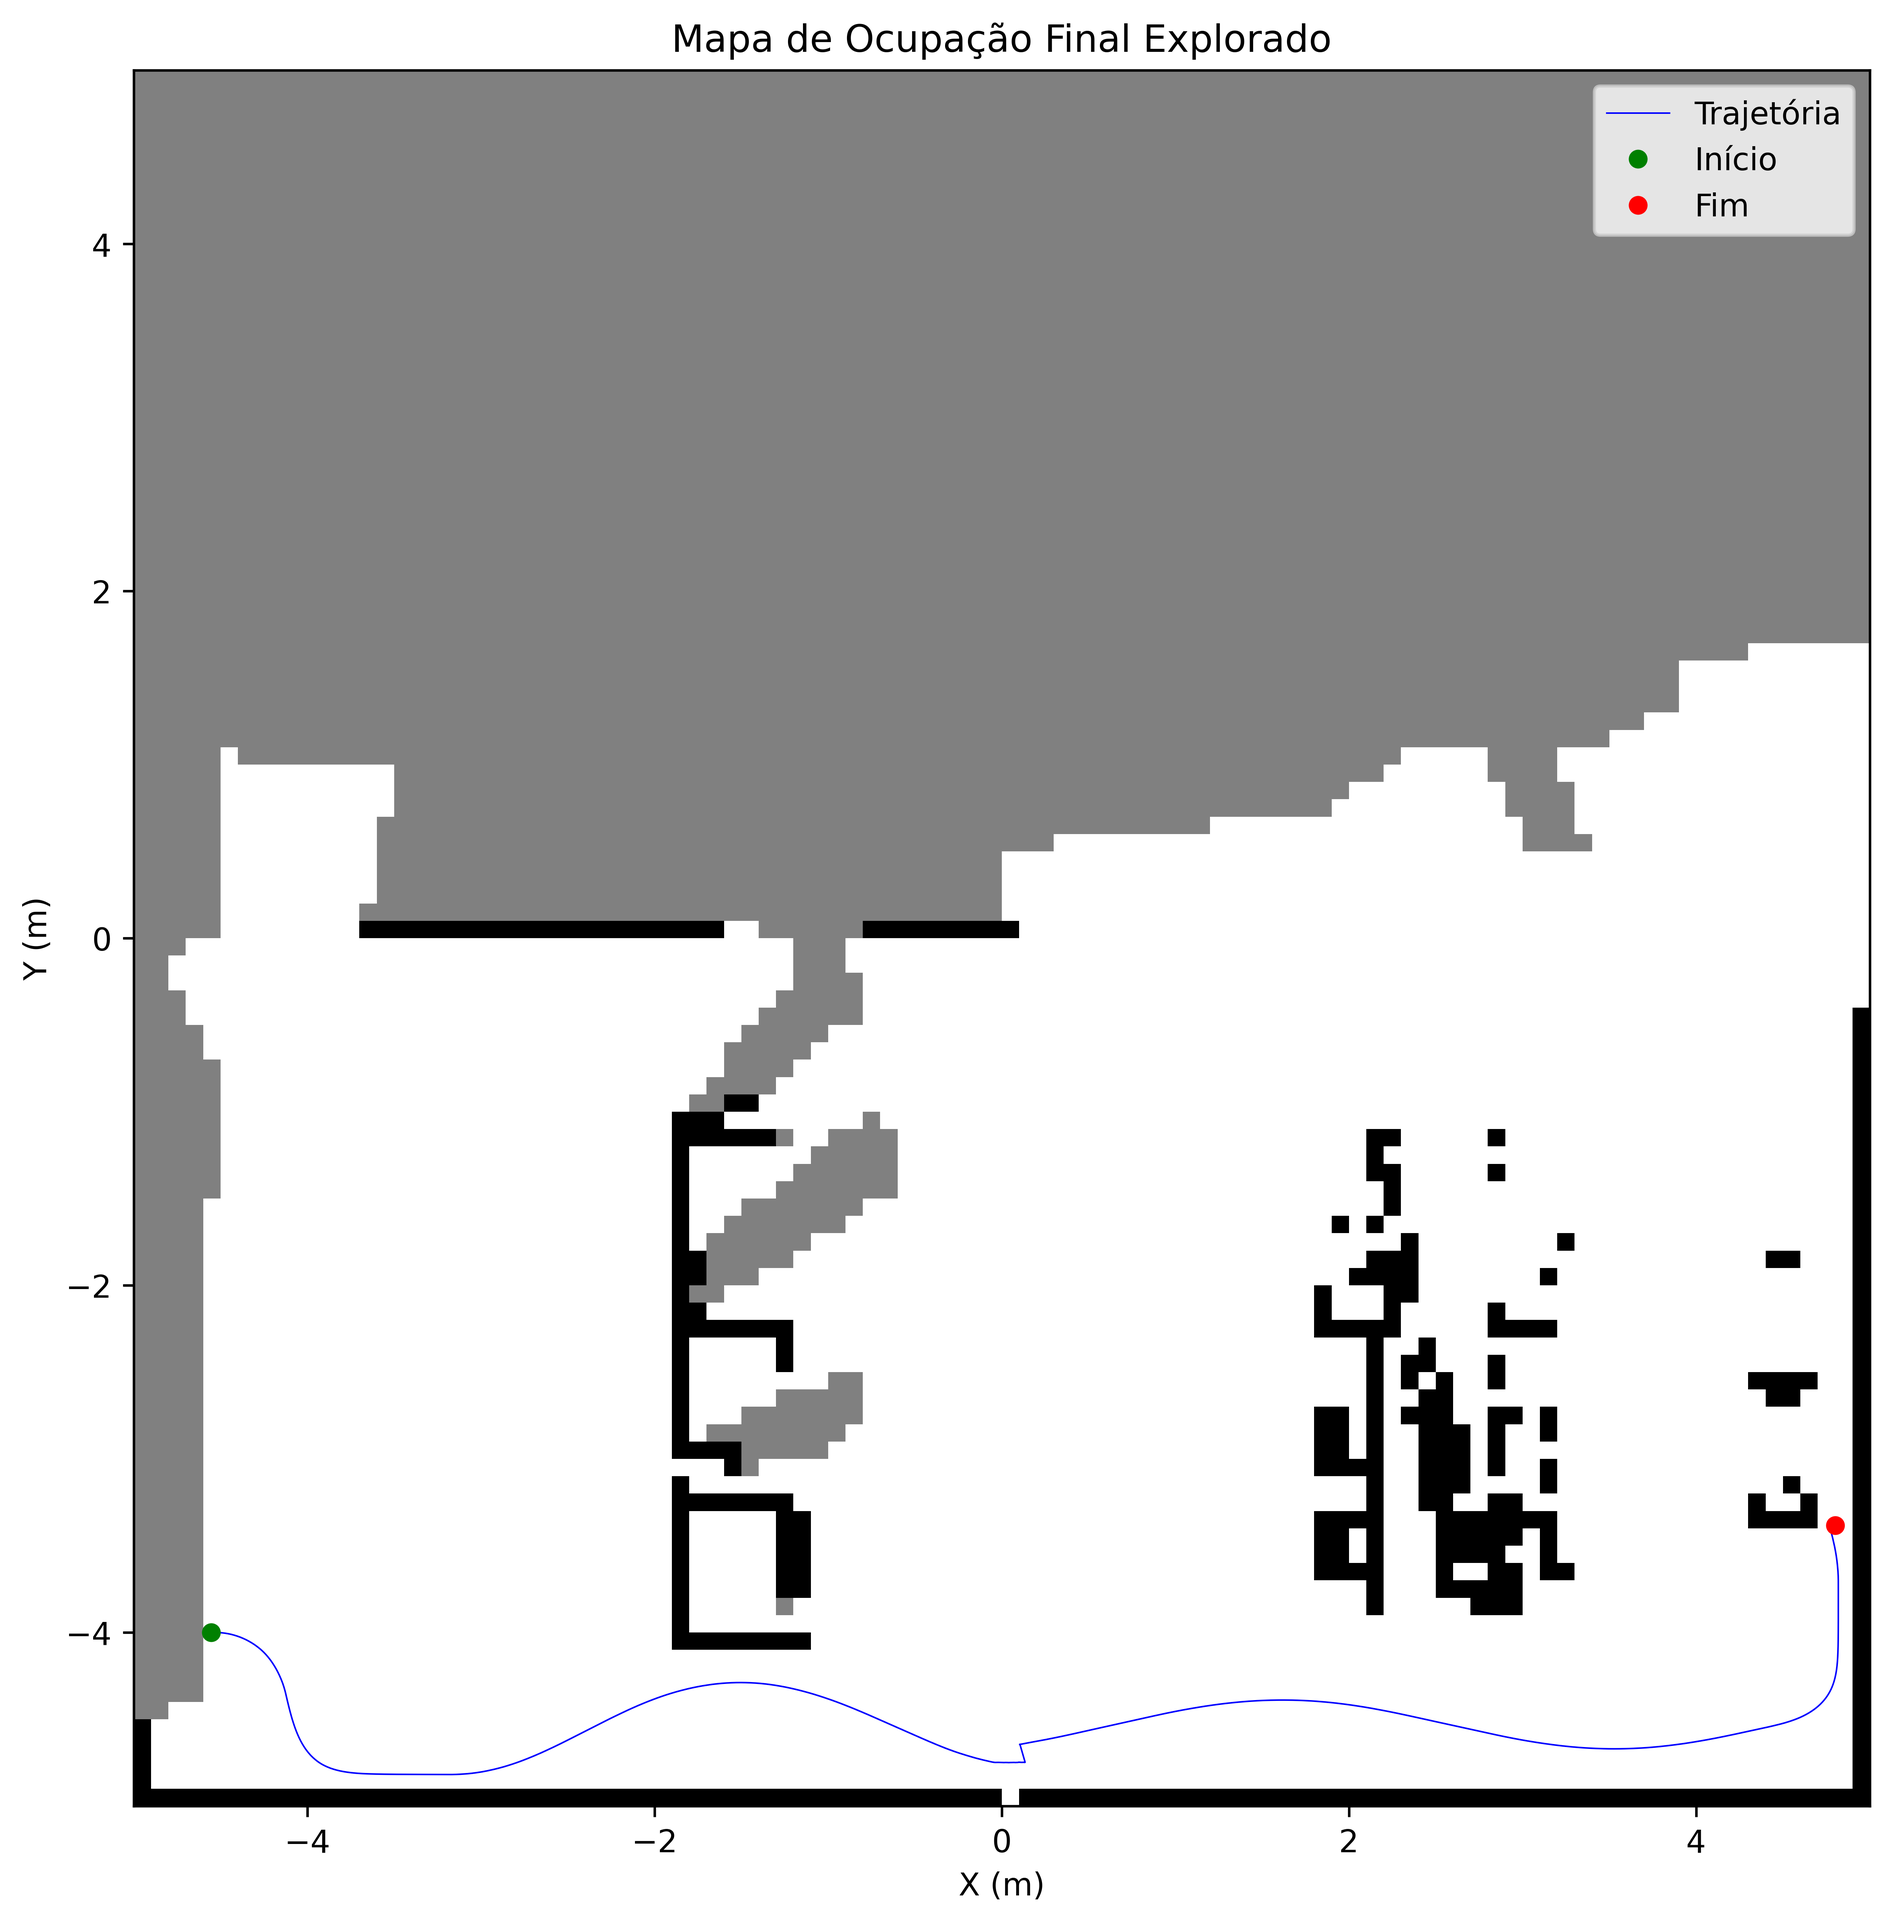
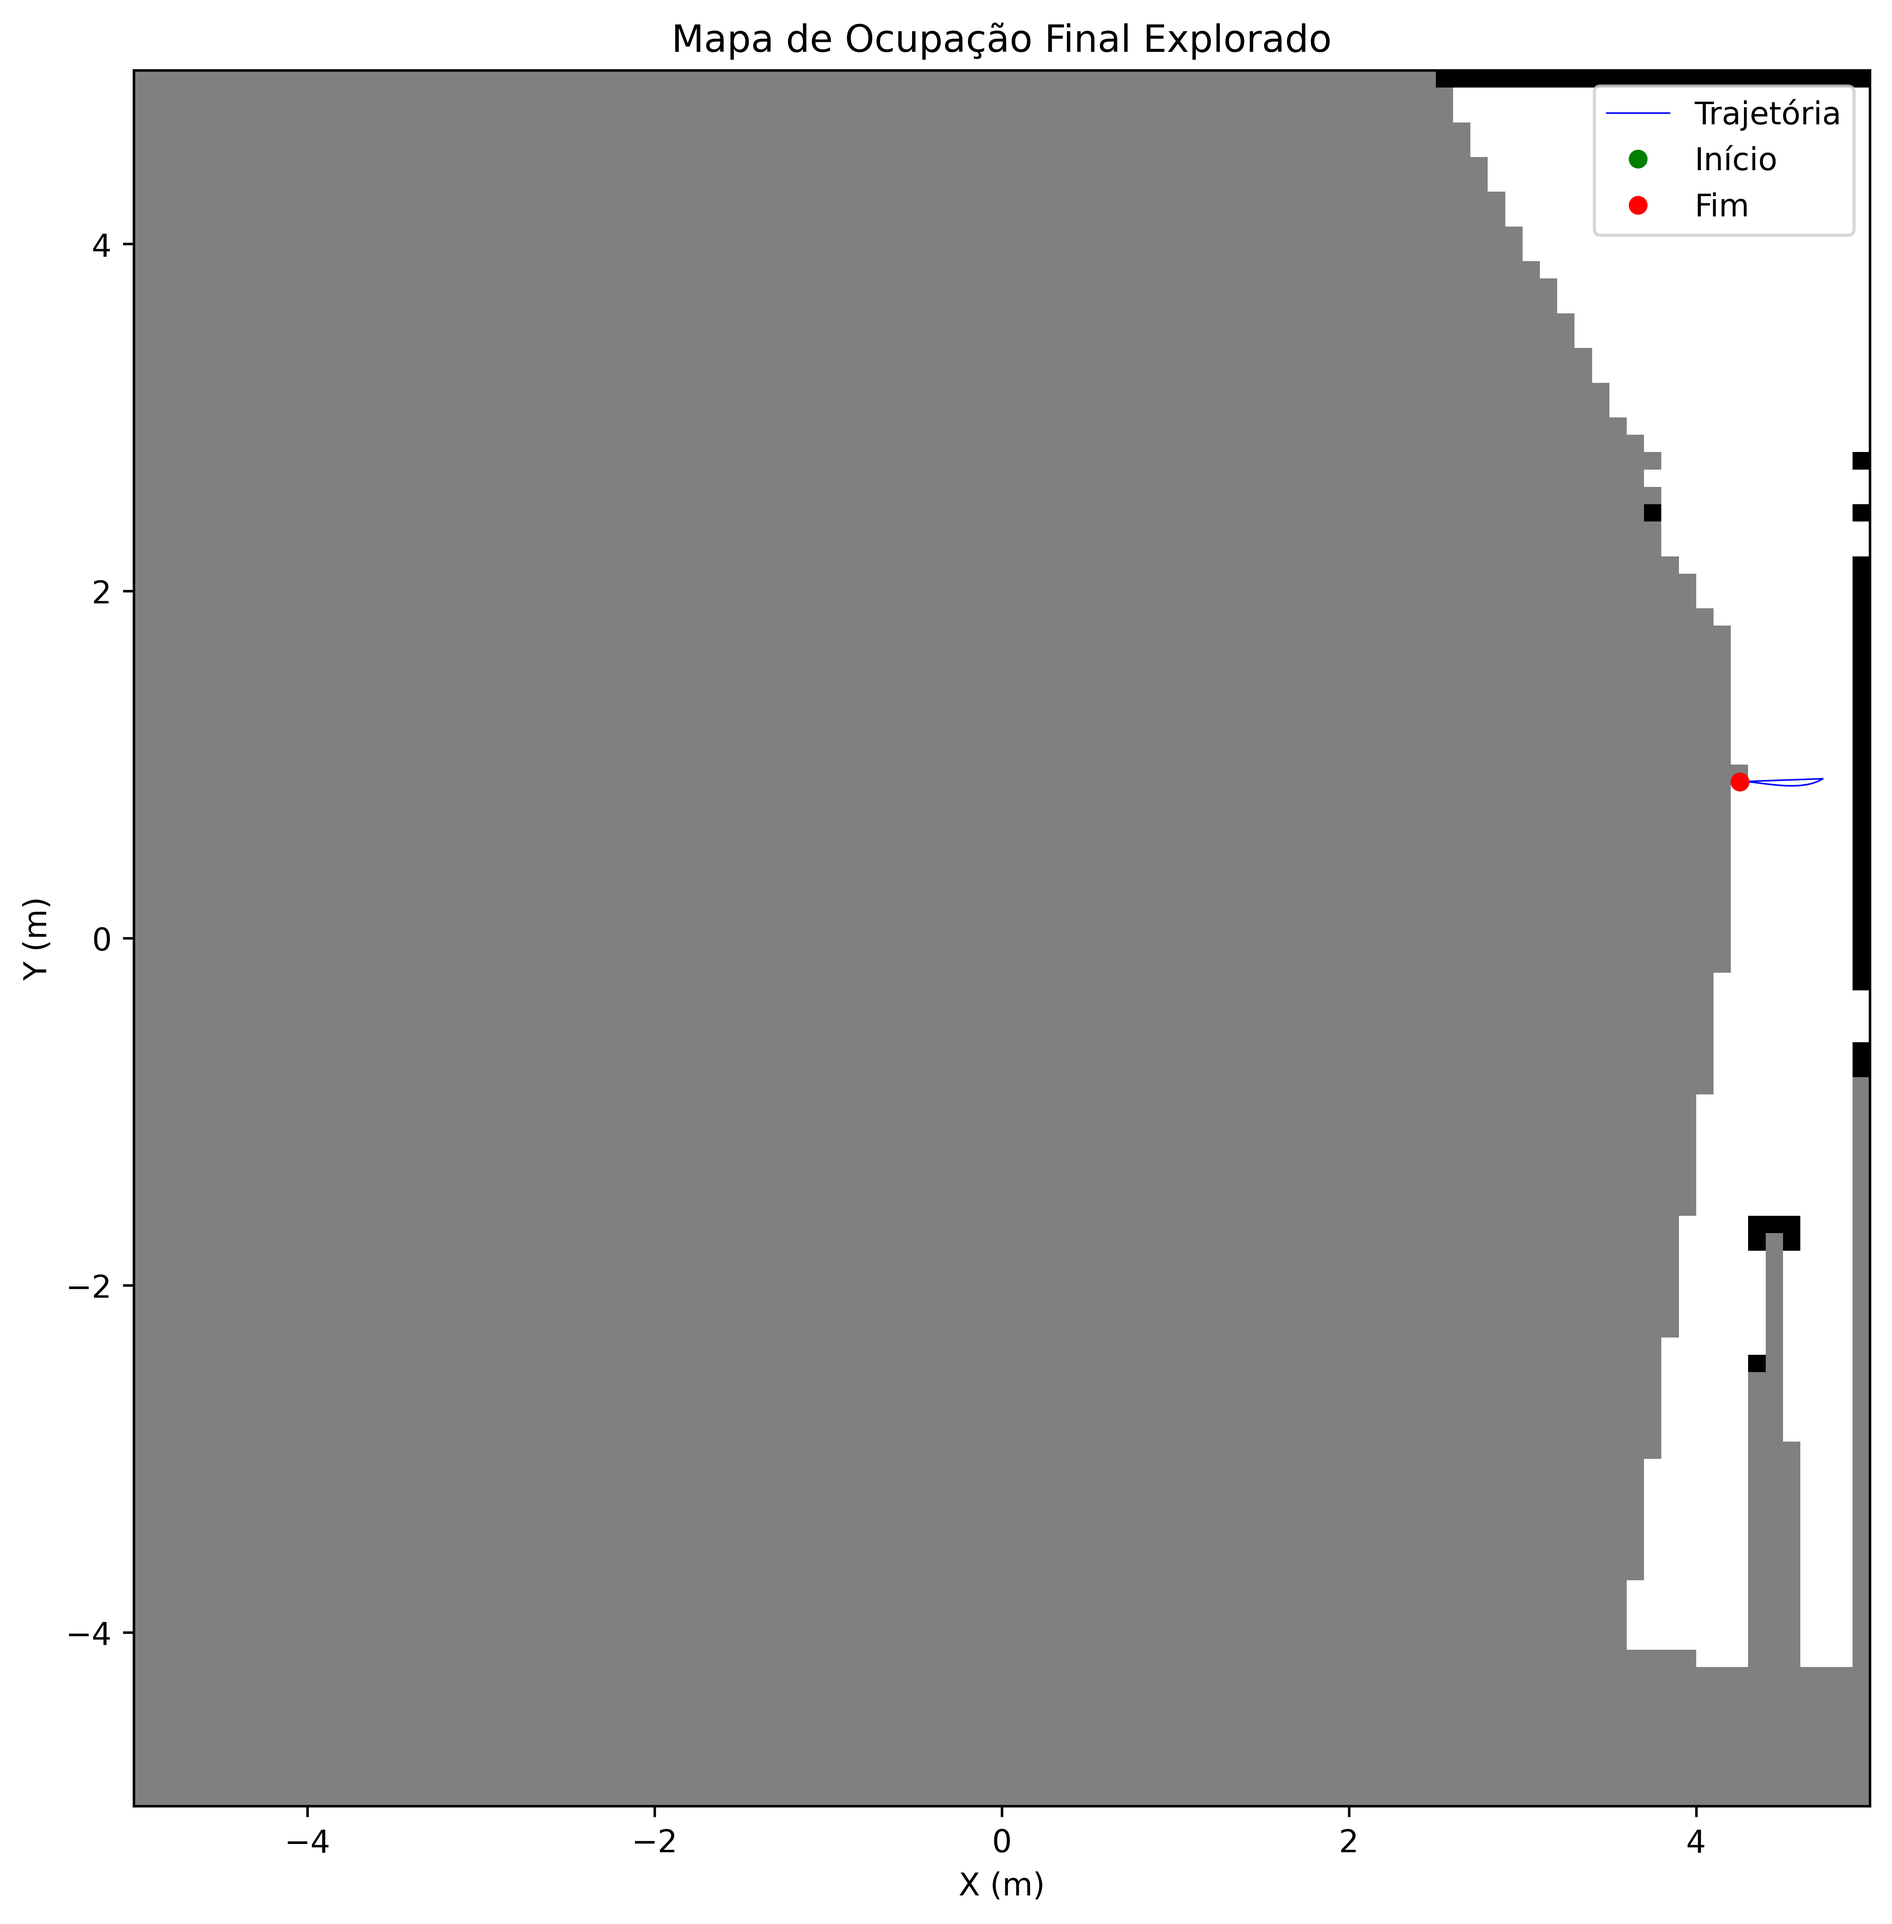
enviando tudo

diff --git a/tp3/src/main.py b/tp3/src/main.py
@@ -1,7 +1,5 @@
 import numpy as np
 import matplotlib
-# matplotlib.use("TkAgg")
-
 import matplotlib.pyplot as plt
 import numpy as np
 import time
@@ -134,10 +132,10 @@ def update_map_log_odds(log_odds_map, robot_pos, laser_data, step, last_seen,
     return log_odds_map, last_seen
 
 
-plt.ion() # Ligar modo interativo
-# Criar uma figura com 2 subplots (1 linha, 2 colunas)
-fig, (ax1, ax2) = plt.subplots(1, 2, figsize=(15, 7))
-fig.suptitle("Mapeamento e Trajetória em Tempo Real", fontsize=16)
+# plt.ion() # Ligar modo interativo
+# # Criar uma figura com 2 subplots (1 linha, 2 colunas)
+# fig, (ax1, ax2) = plt.subplots(1, 2, figsize=(15, 7))
+# fig.suptitle("Mapeamento e Trajetória em Tempo Real", fontsize=16)
 cmap_vis = ListedColormap(['#808080', '#FFFFFF', '#000000'])
 N_LASER_POINTS_PLOT = 1000 # Limite de pontos de laser para plotar (performance)
 map_extent = [MAP_ORIGIN_X, MAP_ORIGIN_X + MAP_SIZE_X, 
@@ -192,7 +190,7 @@ cmap = ListedColormap(["gray", "white", "black"])
 # Loop principal (visualização em metros)
 # -----------------------
 plt.ion()
-fig, ax = plt.subplots(figsize=(6,6))
+fig, (ax1, ax2) = plt.subplots(1, 2, figsize=(12,6))
 
 robot_path_world = []  # lista de (x,y) world coordinates
 
@@ -210,7 +208,7 @@ while sim.getSimulationState() != sim.simulation_stopped:
     step +=1
 
     
-    if step > 1000:
+    if step > 100000000:
         print(f"Tempo limite de {LIMITE_TEMPO_SIM}s atingido. Parando a simulação.")
         break
 
@@ -250,58 +248,58 @@ while sim.getSimulationState() != sim.simulation_stopped:
     sim.setJointTargetVelocity(l_wheel, wl)
     sim.setJointTargetVelocity(r_wheel, wr)
 
-    if step % 25 == 0:
+    # if step % 25 == 0:
         
-        ax1.clear()
-        ax2.clear()
+    ax1.clear()
+    ax2.clear()
 
-        
-        if hist:
-            x, y = zip(*hist)
-            ax1.plot(x, y, '--k', label="Trajetória")
-            ax1.plot(x[0], y[0], 'go', markersize=8, label="Início")
-            ax1.plot(x[-1], y[-1], 'ro', markersize=8, label="Atual")
+    
+    if hist:
+        x, y = zip(*hist)
+        ax1.plot(x, y, '--k', label="Trajetória")
+        ax1.plot(x[0], y[0], 'go', markersize=8, label="Início")
+        ax1.plot(x[-1], y[-1], 'ro', markersize=8, label="Atual")
 
-        if laser_global:
-            points_to_plot = laser_global[-N_LASER_POINTS_PLOT:]
-            lx, ly = zip(*points_to_plot)
-            ax1.scatter(lx, ly, s=1, c='r', alpha=0.1, label=f"Laser (últimos {N_LASER_POINTS_PLOT})")
+    if laser_global:
+        points_to_plot = laser_global[-N_LASER_POINTS_PLOT:]
+        lx, ly = zip(*points_to_plot)
+        ax1.scatter(lx, ly, s=1, c='r', alpha=0.1, label=f"Laser (últimos {N_LASER_POINTS_PLOT})")
 
-        ax1.set_title(f"Plot de Pontos (Step {step})")
-        ax1.set_xlabel("X (m)")
-        ax1.set_ylabel("Y (m)")
-        ax1.set_aspect('equal')
-        ax1.legend(fontsize='small')
-        ax1.grid(True)
+    ax1.set_title(f"Plot de Pontos (Step {step})")
+    ax1.set_xlabel("X (m)")
+    ax1.set_ylabel("Y (m)")
+    ax1.set_aspect('equal')
+    ax1.legend(fontsize='small')
+    ax1.grid(True)
 
-        ax1.set_xlim(MAP_ORIGIN_X, MAP_ORIGIN_X + MAP_SIZE_X)
-        ax1.set_ylim(MAP_ORIGIN_Y, MAP_ORIGIN_Y + MAP_SIZE_Y)
-
-
-        # Plot 2 OCCUPANCY GRID
-        
-        prob = 1.0 / (1.0 + np.exp(-log_odds_map)) 
+    ax1.set_xlim(MAP_ORIGIN_X, MAP_ORIGIN_X + MAP_SIZE_X)
+    ax1.set_ylim(MAP_ORIGIN_Y, MAP_ORIGIN_Y + MAP_SIZE_Y)
 
 
-        grid_vis = np.zeros_like(prob, dtype=np.uint8)
-        grid_vis[prob < 0.45] = 1 
-        grid_vis[prob > 0.55] = 2 
-                  
-        ax2.imshow(grid_vis, origin='lower', cmap=cmap_vis, extent=map_extent, vmin=0, vmax=2)
+    # Plot 2 OCCUPANCY GRID
+    
+    prob = 1.0 / (1.0 + np.exp(-log_odds_map)) 
 
-        if hist:
-            xs, ys = zip(*hist)
-            ax2.plot(xs, ys, color='blue', linewidth=1, label="Trajetória")
-            ax2.plot(xs[0], ys[0], 'go', markersize=5, label="Início")
-            ax2.plot(xs[-1], ys[-1], 'ro', markersize=5, label="Atual")
 
-        ax2.set_title("Mapa de Ocupação (Log-Odds)")
-        ax2.set_xlabel("X (m)")
-        ax2.set_ylabel("Y (m)")
-        ax2.set_aspect('equal')
-        ax2.legend(fontsize='small')
-        
-        plt.pause(0.01) 
+    grid_vis = np.zeros_like(prob, dtype=np.uint8)
+    grid_vis[prob < 0.45] = 1 
+    grid_vis[prob > 0.55] = 2 
+                
+    ax2.imshow(grid_vis, origin='lower', cmap=cmap_vis, extent=map_extent, vmin=0, vmax=2)
+
+    if hist:
+        xs, ys = zip(*hist)
+        ax2.plot(xs, ys, color='blue', linewidth=1, label="Trajetória")
+        ax2.plot(xs[0], ys[0], 'go', markersize=5, label="Início")
+        ax2.plot(xs[-1], ys[-1], 'ro', markersize=5, label="Atual")
+
+    ax2.set_title("Mapa de Ocupação (Log-Odds)")
+    ax2.set_xlabel("X (m)")
+    ax2.set_ylabel("Y (m)")
+    ax2.set_aspect('equal')
+    ax2.legend(fontsize='small')
+    
+    plt.pause(0.01) 
         
 
 
@@ -312,7 +310,7 @@ print('Program ended')
 # --- MODIFICADO: LÓGICA DE PLOTAGEM FINAL ---
 
 # Fechar a janela interativa (fig) que estava aberta
-plt.close(fig) 
+# plt.close(fig) 
 plt.ioff() # Garantir que estamos em modo não-interativo para salvar
 
 print("Gerando plots finais com 600 dpi...")

diff --git a/tp3/src/logOdds.py b/tp3/src/logOdds.py
@@ -3,42 +3,32 @@ from skimage.draw import line
 
 
 
-
-# mexendo atualmente
-LOG_ODDS_MIN = -10.0
-LOG_ODDS_MAX = 10.0
-# --- PARÂMETROS DO MAPA ---
-MAP_RESOLUTION = 0.1  # 10 cm por célula (problema quando muda a resolucao)
-MAP_SIZE_X = 10.0      # metros
-MAP_SIZE_Y = 10.0      # metros
-MAP_ORIGIN_X = -5.0    # Canto inferior esquerdo X
-MAP_ORIGIN_Y = -5.0    # Canto inferior esquerdo Y
-nrows = int(MAP_SIZE_Y / MAP_RESOLUTION)
-ncols = int(MAP_SIZE_X / MAP_RESOLUTION)
-MAX_SCAN_DISTANCE = 5.0
-
-def world_to_grid_xy(wx, wy):
+# conversao das coordenadas do mundo para o bloco do grid
+def world_to_grid_xy(resolucao_mapa, tamanho_mapa, origem_mapa,wx, wy):
     
-    # Converte mundo (x,y) [m] -> índice de célula (ix, iy)
-    # origem está no centro do mapa 0,0
+    ix = int((wx - origem_mapa) / resolucao_mapa)
+    iy = int((wy - origem_mapa) / resolucao_mapa)
     
-    ix = int((wx - MAP_ORIGIN_X) / MAP_RESOLUTION)
-    iy = int((wy - MAP_ORIGIN_Y) / MAP_RESOLUTION)
+        
+    nrows = int(tamanho_mapa / resolucao_mapa)
+    ncols = int(tamanho_mapa / resolucao_mapa)
     
-    # ix = int((ncols / 2) + (wx / cell_size)) # parentezes modificado, caso tenha problema rever
-    # iy = int((nrows / 2) + (wy / cell_size))
-
     if 0 <= ix < ncols and 0 <= iy < nrows:
         return ix, iy
     return None, None
 
 
-
-
-MAX_RANGE_THRESHOLD = MAX_SCAN_DISTANCE * 0.99
 # Calculo do log_odds (explicar no video)
 def update_map_log_odds(log_odds_map, robot_pos, laser_data, step, last_seen,
                         l_occ=0.2, l_free=-0.7):
+    
+    # mexendo atualmente
+    log_odds_min = -10.0
+    log_odds_max = 10.0
+
+    distancia_laiser_max = 5.0
+    alcance_maximo = distancia_laiser_max * 0.99
+    
     
     x, y, theta_r = robot_pos[0], robot_pos[1], robot_pos[2]
     x_Grid, y_Grid = world_to_grid_xy(x, y)
@@ -46,10 +36,8 @@ def update_map_log_odds(log_odds_map, robot_pos, laser_data, step, last_seen,
     if x_Grid is None or y_Grid is None:
         return log_odds_map, last_seen
 
-    # Limiar para considerar uma célula como "fortemente ocupada"
-    # (Não apague células acima deste valor)
     L_OCC_THRESHOLD = 3 
-    L_FREE_THRESHOLD = -3
+    
     
     
     for d, ang in laser_data:
@@ -69,41 +57,30 @@ def update_map_log_odds(log_odds_map, robot_pos, laser_data, step, last_seen,
         if len(rr) <= 1:
             continue
 
-        # --- LÓGICA DE ATUALIZAÇÃO CORRIGIDA ---
-
-        # 1. Obter todas as células do feixe (exceto a do robô)
         beam_rows, beam_cols = rr[1:], cc[1:]
 
-        # 2. Aplicar 'livre' (l_free) ao longo do feixe, EXCETO no ponto final
         if len(beam_rows) > 1:
             path_rows, path_cols = beam_rows[:-1], beam_cols[:-1]
             
-            # Verificar o estado atual dessas células
             current_log_odds = log_odds_map[path_rows, path_cols]
             
-            # Criar uma máscara de células que NÃO estão fortemente ocupadas
             free_or_unknown_mask = current_log_odds < L_OCC_THRESHOLD
             
-            # Aplicar 'l_free' APENAS a essas células
             rows_to_free = path_rows[free_or_unknown_mask]
             cols_to_free = path_cols[free_or_unknown_mask]
             log_odds_map[rows_to_free, cols_to_free] += l_free
 
-        # 3. Tratar o PONTO FINAL (a última célula do feixe)
+
         end_row, end_col = beam_rows[-1], beam_cols[-1]
         
-        if d < MAX_RANGE_THRESHOLD:
-            # if log_odds_map[end_row, end_col] > L_FREE_THRESHOLD:
+        if d < alcance_maximo:
                 log_odds_map[end_row, end_col] += l_occ
         else:
-            # Feixe de Max Range -> Marcar ponto final como LIVRE
-            # (Também checando para não apagar um obstáculo)
-            # if log_odds_map[end_row, end_col] < L_OCC_THRESHOLD:
                 log_odds_map[end_row, end_col] += l_free
 
-        # 4. Atualizar o tempo de visão de todo o feixe
+        
         last_seen[rr, cc] = step
 
-    # Clamp para estabilidade
-    np.clip(log_odds_map, LOG_ODDS_MIN, LOG_ODDS_MAX, out=log_odds_map)
+    
+    np.clip(log_odds_map, log_odds_min, log_odds_max, out=log_odds_map)
     return log_odds_map, last_seen
